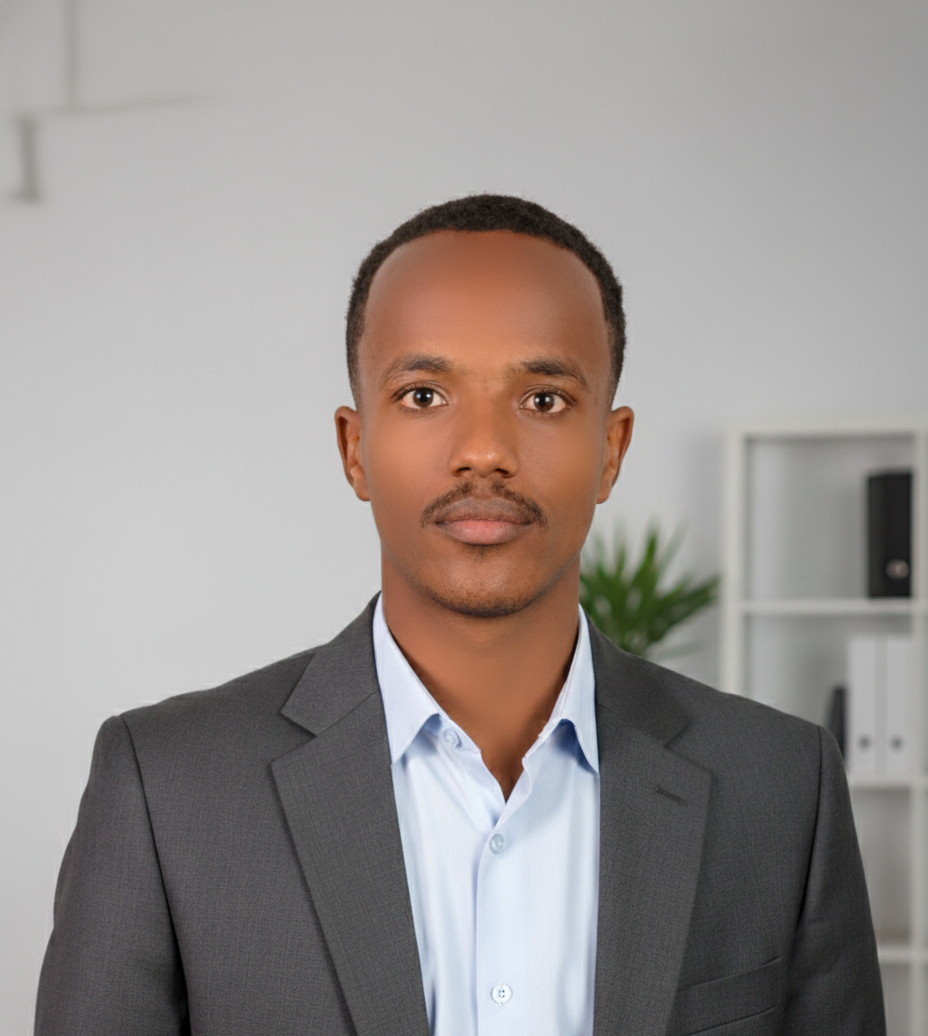
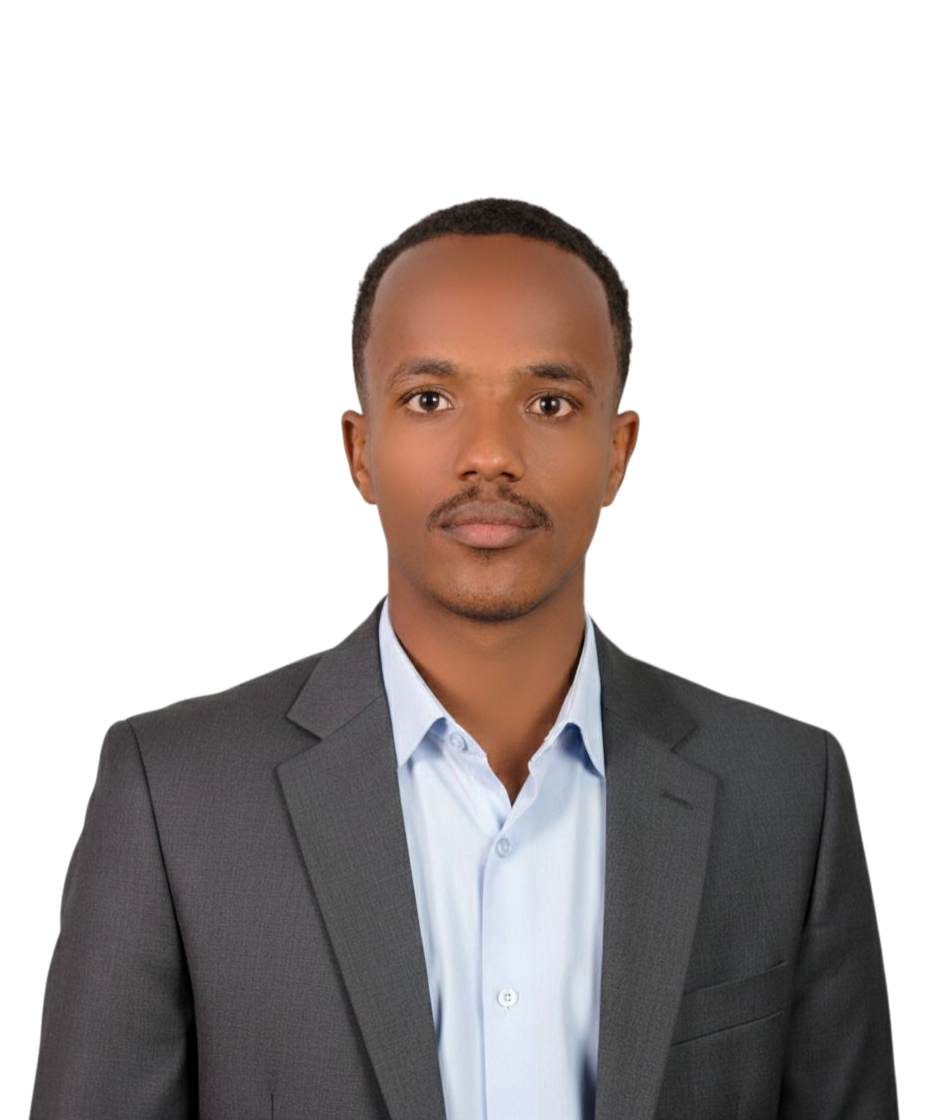
feat: edit radius, remove bg profile

diff --git a/app/globals.css b/app/globals.css
@@ -1,7 +1,7 @@
 @tailwind base;
 @tailwind components;
 @tailwind utilities;
-  /* --background: 0 0% 100%; */
+/* --background: 0 0% 100%; */
 
 /* #0D1117 */
 @layer base {
@@ -36,18 +36,20 @@
 
     --link: 20 14.3% 4.1%;
 
-    --radius: 0.5rem;
+    --radius: 0;
   }
+
   /*--background: 217 28% 7%;
-   --card: 216 28% 12%; github theme card and background*/   
+   --card: 216 28% 12%; github theme card and background*/
   /* Dark mode: GitHub-like (#0D1117) */
   .dark {
     /* --background: 210 6% 10%; */
 
     --background: 216, 28%, 7%;
-    --foreground: 210 40% 85%; /* Light text */
+    --foreground: 210 40% 85%;
+    /* Light text */
 
-  
+
     --card: 216, 28%, 7%;
     --card-foreground: 210 40% 85%;
 
@@ -74,84 +76,87 @@
     --ring: 210 40% 98%;
 
     --link: 210 40% 98%;
-  
+
   }
 
+  body {
+    @apply bg-background text-foreground font-serif;
+    margin: 0 auto;
+  }
+
+  /* Mobile: width 100% */
+  @media (max-width: 640px) {
     body {
-      @apply bg-background text-foreground font-serif;
+      width: 100%;
+      margin: 0;
+    }
+  }
+
+  /* Tablet: width 95% */
+  @media (min-width: 641px) and (max-width: 1024px) {
+    body {
+      width: 95%;
       margin: 0 auto;
     }
+  }
 
-    /* Mobile: width 100% */
-    @media (max-width: 640px) {
-      body {
-        width: 100%;
-        margin: 0;
-      }
+  /* Desktop: width 80% */
+  @media (min-width: 1025px) {
+    body {
+      width: 80%;
+      margin: 0 auto;
     }
+  }
 
-    /* Tablet: width 95% */
-    @media (min-width: 641px) and (max-width: 1024px) {
-      body {
-        width: 95%;
-        margin: 0 auto;
-      }
+  /* High-density / Retina displays: general tweaks (font smoothing, image rendering) */
+  @media (min-resolution: 2dppx),
+  (-webkit-min-device-pixel-ratio: 2),
+  (min--moz-device-pixel-ratio: 2) {
+    body {
+      -webkit-font-smoothing: antialiased;
+      -moz-osx-font-smoothing: grayscale;
+      image-rendering: -webkit-optimize-contrast;
     }
+  }
 
-    /* Desktop: width 80% */
-    @media (min-width: 1025px) {
-      body {
-        width: 80%;
-        margin: 0 auto;
-      }
+  /* Combine width + density checks if you need different layout for high-density devices */
+  @media (max-width: 640px) and (min-resolution: 2dppx),
+  (max-width: 640px) and (-webkit-min-device-pixel-ratio: 2),
+  (max-width: 640px) and (min--moz-device-pixel-ratio: 2) {
+    body {
+      /* same layout but can adjust typography or spacing for retina if needed */
+      width: 100%;
+      margin: 0;
+      /* example: slightly reduce base font-size on very high DPI devices */
+      /* font-size: 0.99rem; */
     }
+  }
 
-    /* High-density / Retina displays: general tweaks (font smoothing, image rendering) */
-    @media (min-resolution: 2dppx), (-webkit-min-device-pixel-ratio: 2), (min--moz-device-pixel-ratio: 2) {
-      body {
-        -webkit-font-smoothing: antialiased;
-        -moz-osx-font-smoothing: grayscale;
-        image-rendering: -webkit-optimize-contrast;
-      }
+  @media (min-width: 641px) and (max-width: 1024px) and (min-resolution: 2dppx),
+  (min-width: 641px) and (max-width: 1024px) and (-webkit-min-device-pixel-ratio: 2),
+  (min-width: 641px) and (max-width: 1024px) and (min--moz-device-pixel-ratio: 2) {
+    body {
+      width: 95%;
+      margin: 0 auto;
     }
+  }
 
-    /* Combine width + density checks if you need different layout for high-density devices */
-    @media (max-width: 640px) and (min-resolution: 2dppx),
-           (max-width: 640px) and (-webkit-min-device-pixel-ratio: 2),
-           (max-width: 640px) and (min--moz-device-pixel-ratio: 2) {
-      body {
-        /* same layout but can adjust typography or spacing for retina if needed */
-        width: 100%;
-        margin: 0;
-        /* example: slightly reduce base font-size on very high DPI devices */
-        /* font-size: 0.99rem; */
-      }
+  @media (min-width: 1025px) and (min-resolution: 2dppx),
+  (min-width: 1025px) and (-webkit-min-device-pixel-ratio: 2),
+  (min-width: 1025px) and (min--moz-device-pixel-ratio: 2) {
+    body {
+      width: 80%;
+      margin: 0 auto;
     }
-
-    @media (min-width: 641px) and (max-width: 1024px) and (min-resolution: 2dppx),
-           (min-width: 641px) and (max-width: 1024px) and (-webkit-min-device-pixel-ratio: 2),
-           (min-width: 641px) and (max-width: 1024px) and (min--moz-device-pixel-ratio: 2) {
-      body {
-        width: 95%;
-        margin: 0 auto;
-      }
-    }
-
-    @media (min-width: 1025px) and (min-resolution: 2dppx),
-           (min-width: 1025px) and (-webkit-min-device-pixel-ratio: 2),
-           (min-width: 1025px) and (min--moz-device-pixel-ratio: 2) {
-      body {
-        width: 80%;
-        margin: 0 auto;
-      }
-    }
+  }
 }
 
+h1,
+h2,
+h3,
+h4,
+h5,
+h6 {
+  font-weight: 200 !important;
 
-.glass {
-  background: rgba(255, 255, 255, 0.12);
-  backdrop-filter: blur(12px);
-  -webkit-backdrop-filter: blur(12px);
-  border-radius: 4px;
-  border: 1px solid rgba(255, 255, 255, 0.2);
 }

diff --git a/components/Project-Detail-Card.tsx b/components/Project-Detail-Card.tsx
@@ -56,17 +56,17 @@ export function ProjectDetailCard({
       id={`project-${id}`}
     >
       <CardHeader>
-        <CardTitle className="text-2xl font-bold font-serif">{title}</CardTitle>
+        <CardTitle className="text-2xl font-semibold font-serif">{title}</CardTitle>
       </CardHeader>
       <CardContent className="space-y-4">
         <p className="text-base text-muted-foreground">{description}</p>
         {note && <i className="text-sm italic mt-0 text-muted-foreground">{note}</i>}
         <div>
-          <h3 className="text-lg font-semibold">Technologies Used:</h3>
+          <h3 className="text-lg font-normal">Technologies Used:</h3>
           <p className="text-base">{technologies.join(", ")}</p>
         </div>
         <div>
-          <h3 className="text-lg font-semibold">
+          <h3 className="text-lg font-normal">
             Key Features & Contributions:
           </h3>
           <ul className="list-disc list-inside text-base space-y-1">
@@ -83,8 +83,8 @@ export function ProjectDetailCard({
                 hideyoutubeuser > 10000
                   ? "#16a34a"
                   : hideyoutubeuser > 1000
-                  ? "#eab308"
-                  : "#ef4444",
+                    ? "#eab308"
+                    : "#ef4444",
               fontWeight: "bold",
               textShadow: "0 0 8px rgba(255,255,0,0.5)",
             }}
@@ -102,8 +102,8 @@ export function ProjectDetailCard({
                 hideyoutubeuser > 10000
                   ? "#16a34a"
                   : hideyoutubeuser > 1000
-                  ? "#eab308"
-                  : "#ef4444",
+                    ? "#eab308"
+                    : "#ef4444",
               fontWeight: "bold",
               textShadow: "0 0 8px rgba(255,255,0,0.5)",
             }}
@@ -138,7 +138,6 @@ export function ProjectDetailCard({
             </Link>
           )}
           {title.includes("Email Craft") && (
-            
             <Link
               href="https://www.youtube.com/watch?v=Abs08REbc4o"
               target="_blank"

diff --git a/components/Public-Activity.tsx b/components/Public-Activity.tsx
@@ -4,13 +4,13 @@ import Link from "next/link";
 export default function PublicActivity() {
   return (
     <section>
-      <h2 className="text-3xl font-bold font-serif  border-border pb-2 mb-4">
+      <h2 className="text-3xl font-normal font-serif  border-border pb-2 mb-4">
         Public Activity
       </h2>
       <div className="grid gap-6">
         <Card className="border border-border rounded-sm shadow-none">
           <CardHeader>
-            <CardTitle className="text-xl font-bold font-serif">
+            <CardTitle className="text-xl font-normal font-serif">
               Reactjs and Nextjs Mentor
             </CardTitle>
           </CardHeader>
@@ -38,7 +38,7 @@ export default function PublicActivity() {
         </Card>
         <Card className="border border-border rounded-sm shadow-none">
           <CardHeader>
-            <CardTitle className="text-xl font-bold font-serif">
+            <CardTitle className="text-xl font-normal font-serif">
               Backend and DSA Mentor
             </CardTitle>
           </CardHeader>
@@ -70,7 +70,7 @@ export default function PublicActivity() {
         </Card>
         <Card className="border border-border rounded-sm shadow-none">
           <CardHeader>
-            <CardTitle className="text-xl font-bold font-serif">
+            <CardTitle className="text-xl font-normal font-serif">
               Frontend Mentor
             </CardTitle>
           </CardHeader>
@@ -95,7 +95,7 @@ export default function PublicActivity() {
         </Card>
         <Card className="border border-border rounded-sm shadow-none">
           <CardHeader>
-            <CardTitle className="text-xl font-bold font-serif">
+            <CardTitle className="text-xl font-normal font-serif">
               Core Team Member
             </CardTitle>
           </CardHeader>

diff --git a/components/Skill.tsx b/components/Skill.tsx
@@ -4,18 +4,18 @@ export default function Skill() {
   return (
     <Card className="border border-border rounded-sm shadow-none">
       <CardHeader>
-        <CardTitle className="text-2xl font-bold font-serif">Skills</CardTitle>
+        <CardTitle className="text-2xl font-normal font-serif">Skills</CardTitle>
       </CardHeader>
       <CardContent className="">
-        <h3 className="text-lg font-semibold">Programming Languages:</h3>
-        <p className="text-base mt-0">JavaScript, Golang, Python, Java</p>
-        <h3 className="text-lg mt-3 font-semibold">Frameworks & Libraries:</h3>
+        <h3 className="text-lg font-normal">Programming Languages:</h3>
+        <p className="text-base mt-0">JavaScript,C#, Golang, Python, Java</p>
+        <h3 className="text-lg mt-3 font-normal">Frameworks & Libraries:</h3>
         <p className="text-base">
-          Reactjs, Nextjs, Nodejs, Expressjs, Flutter, NestJS, Tailwindcss
+          Reactjs, Nextjs,Dotnet, Nodejs, Expressjs, Flutter, NestJS, Tailwindcss
         </p>
-        <h3 className="text-lg mt-3 font-semibold">Databases:</h3>
+        <h3 className="text-lg mt-3 font-normal">Databases:</h3>
         <p className="text-base">Postgres, MySQL, MongoDB</p>
-        <h3 className="text-lg mt-3 font-semibold">Tools & Platforms:</h3>
+        <h3 className="text-lg mt-3 font-normal">Tools & Platforms:</h3>
         <p className="text-base">
           Git, Linux (advanced), Docker, Prisma, Neon, Github Projects, Figma,
           Vercel, Onrender, Netlify, Cloudinary

diff --git a/components/Profile-Container.tsx b/components/Profile-Container.tsx
@@ -16,20 +16,20 @@ export default function ProfileContainer() {
             alt="Jiru Gutema Profile"
             layout="fill"
             objectFit="cover"
-            className="rounded-full cursor-pointer border-2 border-foreground"
-            onClick={()=>{
-              window.open('/images/profile_1.png','_blank');
+            className="rounded-none cursor-pointer "
+            onClick={() => {
+              window.open('/images/profile_1.png', '_blank');
             }}
           />
         </div>
-        <h2 className="text-3xl font-bold font-serif mb-1">Jiru Gutema</h2>
+        <h2 className="text-3xl font-normal font-serif mb-1">Jiru Gutema</h2>
         <p className="text-lg text-muted-foreground">
           Software Engineer | Fullstack Developer
         </p>
         <p className="text-sm text-muted-foreground">Addis Ababa, Ethiopia</p>
         <div className="flex justify-center">
 
-        <SocialLinks/>
+          <SocialLinks />
         </div>
       </CardContent>
     </Card>

diff --git a/components/Contribution.tsx b/components/Contribution.tsx
@@ -10,7 +10,7 @@ export default function Contribution() {
       <div className="grid gap-6">
         <Card className="border border-border rounded-sm shadow-none">
           <CardHeader>
-            <CardTitle className="text-xl font-bold font-serif">
+            <CardTitle className="text-xl font-normal font-serif">
               React-Next-Folder Creator
             </CardTitle>
           </CardHeader>
@@ -30,7 +30,7 @@ export default function Contribution() {
         </Card>
         <Card className="border border-border rounded-sm shadow-none">
           <CardHeader>
-            <CardTitle className="text-xl font-bold font-serif">
+            <CardTitle className="text-xl font-normal font-serif">
               db4free-net-l10n
             </CardTitle>
           </CardHeader>

diff --git a/app/projects/page.tsx b/app/projects/page.tsx
@@ -1,6 +1,6 @@
 import { ProjectDetailCard } from "@/components/Project-Detail-Card"
 import { Separator } from "@/components/ui/separator"
-import {projects} from "../../components/data/projects"
+import { projects } from "../../components/data/projects"
 
 export default function ProjectsPage() {
 
@@ -14,7 +14,7 @@ export default function ProjectsPage() {
         {projects.map((project, index) => (
           <div key={index}>
             <ProjectDetailCard {...project} />
-            {index < projects.length - 1 && <Separator className="bg-border my-8" />}
+
           </div>
         ))}
       </div>

diff --git a/components/Languages.tsx b/components/Languages.tsx
@@ -4,7 +4,7 @@ export default function Languages() {
   return (
     <Card className="border border-border rounded-sm shadow-none">
       <CardHeader>
-        <CardTitle className="text-2xl font-bold font-serif">
+        <CardTitle className="text-2xl font-normal font-serif">
           Languages
         </CardTitle>
       </CardHeader>

diff --git a/tailwind.config.ts b/tailwind.config.ts
@@ -56,8 +56,8 @@ const config = {
       },
       borderRadius: {
         lg: "var(--radius)",
-        md: "calc(var(--radius) - 2px)",
-        sm: "calc(var(--radius) - 4px)",
+        md: "calc(var(--radius) - 0px)",
+        sm: "calc(var(--radius) - 0px)",
       },
       keyframes: {
         "accordion-down": {

diff --git a/components/About.tsx b/components/About.tsx
@@ -2,6 +2,7 @@ import Link from "next/link";
 import { Button } from "./ui/button";
 
 export default function About() {
+
   return (
     <section>
       <h2 className="text-3xl font-bold font-serif  border-border pb-2 mb-4">
